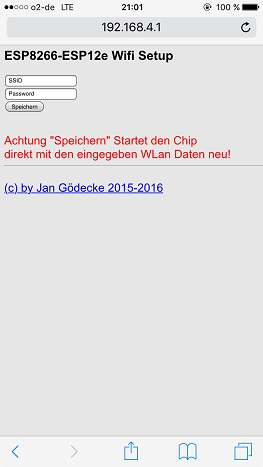
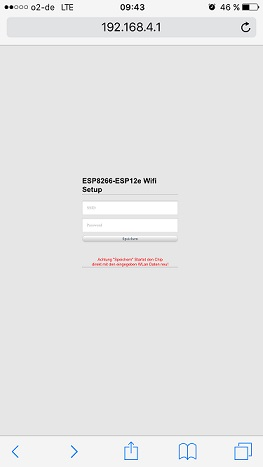
Change Setup
Fehler  beim Wifi-Setup behoben ->
https://github.com/JanGoe/esp8266-wifi-relay/issues/22
Readme.md angepasst
Setup Bilder erneuert
lua-tcp\set.html Desigen angepasst
add lua-tcp\dns-liar.lua für QuickSetup

diff --git a/lua-tcp/set.html b/lua-tcp/set.html
@@ -2,14 +2,67 @@
 <!DOCTYPE HTML PUBLIC '-//W3C//DTD HTML 4.01//EN'>
 <head>
 <title>WiFi ESP8266 Manager</title>
+   <style media='screen' type='text/css'>
+        * {margin: 0; padding: 0;}
+        div {
+            position: absolute;
+            margin: auto;
+            top: 0;
+            right: 0;
+            bottom: 0;
+            left: 0;
+            width: 320px;
+            height: 274px;
+        }
+        form {
+            width: 320px;
+            text-align: center;
+            position: relative;
+        }
+        form fieldset {
+            background: white;
+            border: 0 none;
+            border-radius: 5px;
+            box-shadow: 0 0 15px 1px rgba(0, 0, 0, 0.4);
+            padding: 20px 30px;
+            box-sizing: border-box;
+        }
+        form input {
+            padding: 15px;
+            border: 1px solid #ccc;
+            border-radius: 3px;
+            margin-bottom: 10px;
+            width: 100%;
+            box-sizing: border-box;
+            font-family: montserrat;
+            color: #2C3E50;
+            font-size: 13px;
+        }
+        form .action-button {
+            width: 100px;
+            background: #27AE60;
+            font-weight: bold;
+            color: white;
+            border: 0 none;
+            border-radius: 3px;
+            cursor: pointer;
+            padding: 10px 5px;
+            margin: 10px 5px;
+        }
+        form .action-button:hover, #msform .action-button:focus {
+            box-shadow: 0 0 0 2px white, 0 0 0 3px #27AE60;
+        }
+    </style>
 </head>
 <body bgcolor='#E6E6E6'>
+<div>
 <h2><font face="Arial">ESP8266-ESP12e Wifi Setup</h2>
-<form action="/set1" method="GET">
-<input type="text" name="ssid" value="SSID"><br>
-<input type="text" name="pwd" value="Password"><br>
+<hr><br>
+<form>
+<input type="text" name="ssid"  placeholder="SSID"><br>
+<input type="text" name="pwd"  placeholder="Password"><br>
 <input type="Submit" name="senden" value="Speichern"><br><br><br>
 <font size="2" color="red">Achtung "Speichern" Startet den Chip<br> direkt mit den eingegeben WLan Daten neu!</font><br>
 <hr><br>
-<font size="2" face="Arial"><a href="mailto:jan.andrea7@googlemail.com">(c) by Jan Gödecke 2015-2016</a>
+</div>
 </html>

diff --git a/README.md b/README.md
@@ -17,7 +17,7 @@
 
 ### Quick Setup
 
-A) Beim ersten Start des ESP8266-Wifi-Relay wird ein **HOTSPOT** (nach ca. 10 Sekunden leuchtet die Blaue LED am ESP8266 3x kurz / das Relais schaltet 3x) mit der SSID: **ESP_XXXX** erstellt. Sobald man mit diesem Hotspot verbunden ist, kann man auf `http://192.168.4.1/set` die Zugangsdaten des eigenen WLAN-Netzes eingeben. Nach dem Speichern der Daten, startet der ESP8266 neu und versucht sich zu verbinden. Im Fehlerfall (WLAN nicht erreichbar, Zugangsdaten falsch) beginnt das ESP8266-Wifi-Relay wieder bei Schritt **A)**
+A) Beim ersten Start des ESP8266-Wifi-Relay wird ein **HOTSPOT** (nach ca. 10 Sekunden leuchtet die Blaue LED am ESP8266 3x kurz / das Relais schaltet 3x) mit der SSID: **RelaySetup** erstellt. Sobald man mit diesem Hotspot verbunden ist, kann man auf `http://192.168.4.1/set` die Zugangsdaten des eigenen WLAN-Netzes eingeben. Nach dem Speichern der Daten, startet der ESP8266 neu und versucht sich zu verbinden. Im Fehlerfall (WLAN nicht erreichbar, Zugangsdaten falsch) beginnt das ESP8266-Wifi-Relay wieder bei Schritt **A)**
 
 Sofern alles geklappt hat, startet der TCP-Server auf Port 9274 und es können Befehle ausführt werden (z.b. Dateien auf den ESP8266 übertragen - siehe Befehls-Tabelle weiter unten)
 
